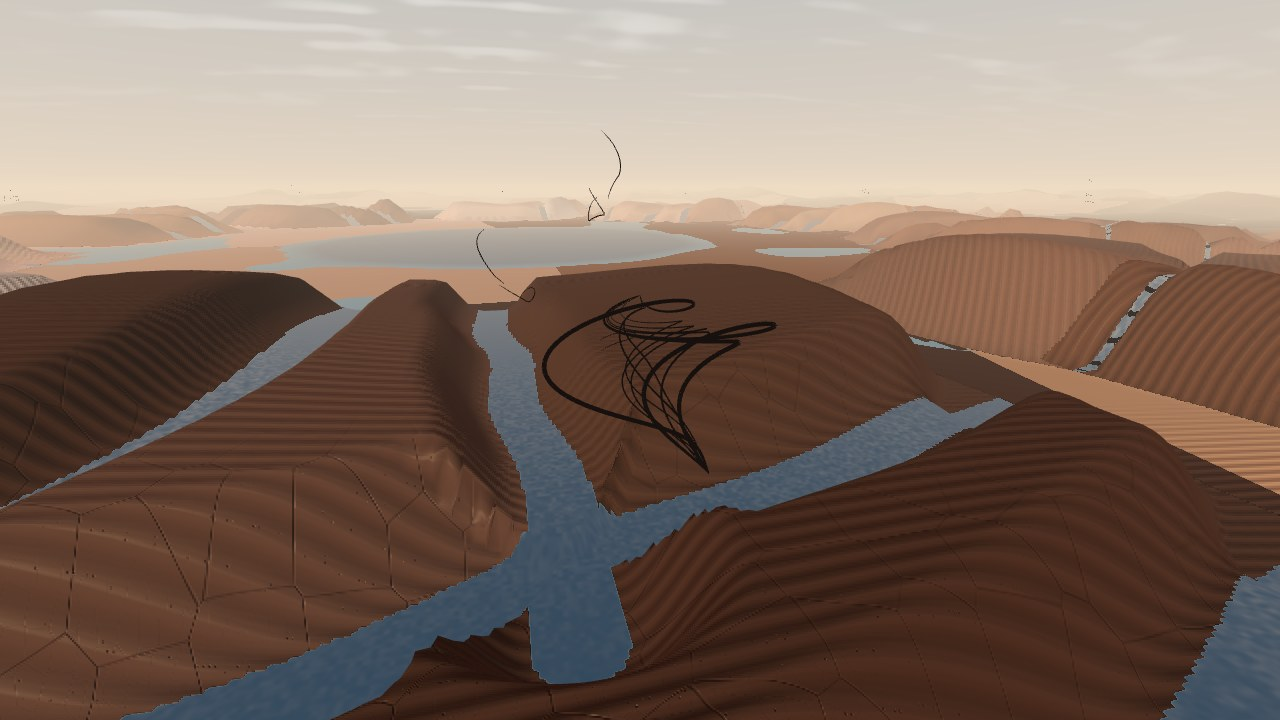
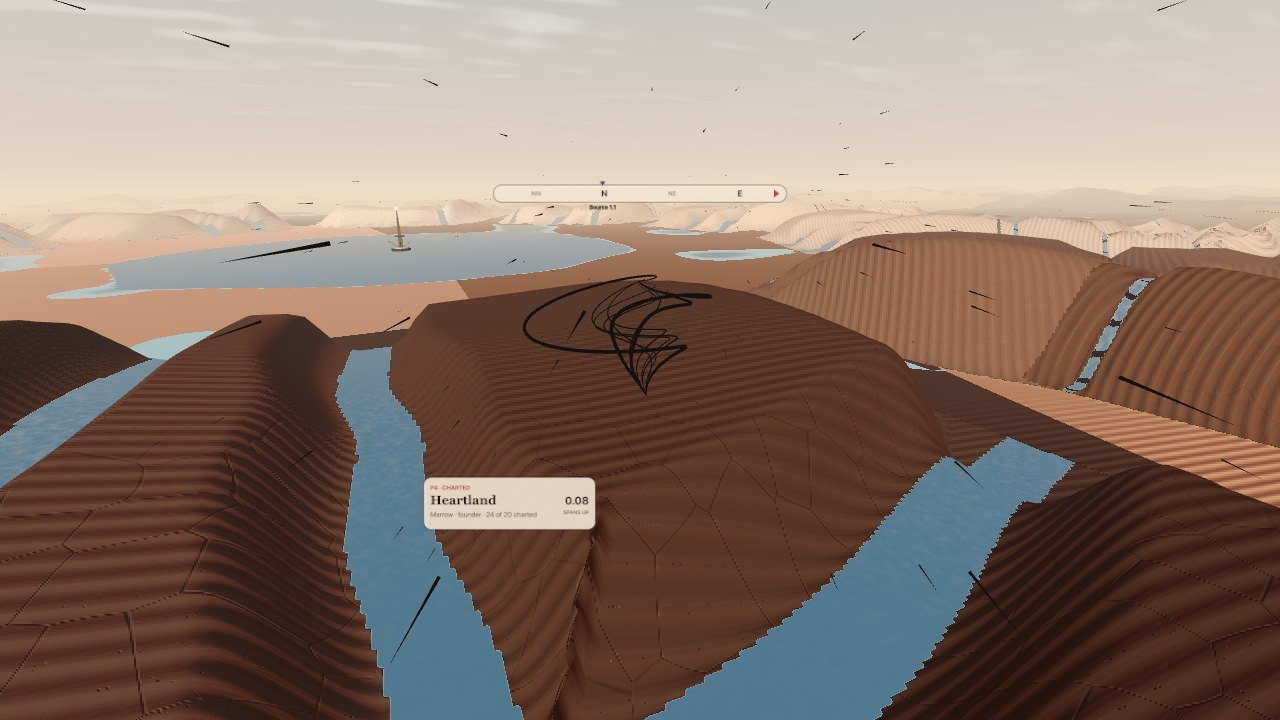
docs: README, Devpost copy and screenshots for the full game; the film shows charting, the atlas, a meeting and the Source
The film now reads by eye from the route card, charts while diving, opens the atlas by palm, chases
a second player (Oruvel, on the same local map) until the swarms braid, and ends at the Source.
Tracked hands are ink silhouettes again under the Source's lights. Devpost story: 443 words.

diff --git a/src/main.js b/src/main.js
@@ -264,9 +264,14 @@ scene.add(ink.mesh);
 // ---------- hands and head (read live for steering, never kept) ----------
 
 const handFactory = new XRHandModelFactory();
+// your hands are ink silhouettes (the hand models are lit standard materials; the Source's lights would turn them grey)
+const inkHands = [], INK_HAND = new THREE.MeshBasicMaterial({ color: 0x16100e });
+setInterval(() => { for (const m of inkHands) m.traverse((o) => { if (o.isMesh && o.material !== INK_HAND) o.material = INK_HAND; }); }, 1000);
 const xrHands = [0, 1].map((i) => {
   const hand = renderer.xr.getHand(i);
-  hand.add(handFactory.createHandModel(hand, 'mesh'));
+  const model = handFactory.createHandModel(hand, 'mesh');
+  hand.add(model);
+  inkHands.push(model);
   rig.add(hand);
   const h = { hand, handedness: i ? 'right' : 'left', frame: null, hold: createSteer(), engaged: false, store: Object.fromEntries(JOINTS.map((n) => [n, [0, 0, 0]])) };
   hand.addEventListener('connected', (e) => { h.handedness = e.data.handedness || h.handedness; });
@@ -604,7 +609,9 @@ function poke(mesh = atelier.mesh, down = (uv) => act(atelier.down(uv, flow)), m
   }
 }
 // a pinch: in the atelier it touches the card where you look; on the way to the merge it chooses the ghost you look at
+let pinchAt = -Infinity; // the last pinch: gaze + pinch and the palm hold must not fight over which ghost is chosen
 [0, 1].forEach((i) => renderer.xr.getController(i).addEventListener('select', () => {
+  pinchAt = performance.now();
   gazeRay();
   if (mode === 'atelier') { const uv = cardUV(); if (uv) { act(atelier.down(uv, flow)); act(atelier.up(flow)); } }
   else if (mode === 'atlas') { const uv = atlasUV(); if (uv) { atlasDo(atlas.down(uv)); atlasDo(atlas.up()); } }
@@ -760,13 +767,13 @@ function frame() {
     const h = xrHands.find((q) => q.handedness === 'right' && q.frame) ?? xrHands.find((q) => q.frame);
     if (renderer.xr.isPresenting && h) {
       const r = push.update(h.frame, dt, handFloor());
-      if (push.holding) {
+      if (push.holding && performance.now() - pinchAt > 3000) { // the palm chooses only when you are not pinching
         raycaster.ray.origin.fromArray(h.frame.center).applyMatrix4(rig.matrixWorld);
         raycaster.ray.direction.fromArray(h.frame.forward).applyQuaternion(rig.quaternion).normalize();
         const i = ghosts.aim(raycaster.ray.origin, raycaster.ray.direction);
         if (i >= 0 && i !== ghosts.selected) ghosts.select(i);
       }
-      if (r === 'push') choose(ghosts.selected);
+      if (r === 'push' && performance.now() - pinchAt > 3000) choose(ghosts.selected);
     }
   }
   if (rising) { // a laid Hand rises over 8 s once it has baked; the glider's floor rises with it

diff --git a/README.md b/README.md
@@ -25,9 +25,9 @@ The world starts as the **First Ten**: ten founding Hands lying in a ring around
 no other designed land. The world only grows when a player joins.
 
 - **Read your hand.** In your own room, in passthrough, a card floats in front of you next to your
-  real hand. You look at each fingertip and touch the pattern that matches (arch, tented arch, loop,
-  whorl, pocket loop, double loop). You trace your heart, head and life lines on a drawn palm, pick
-  a skin palette and get a name.
+  real hand. Read it by eye (look at each fingertip and touch the pattern that matches, trace your
+  heart, head and life lines on a drawn palm), or let your phone read it: it photographs your palm
+  and fingertips, reads the lines and patterns, deletes the photos and sends only the map DNA.
 - **Lay your Hand.** The game finds three places on the frontier where your Hand fits against the
   Hands already there, and shows them as ink outlines on the land. Choose one, and your Hand rises
   out of the wilderness over eight seconds, rivers first.
@@ -35,8 +35,16 @@ no other designed land. The world only grows when a player joins.
   up climbs, fingers down dives, and diving builds speed. Skim a ridge and you are flung forward.
 - **Scribbles.** Every fingerprint hatches a scribble, a single tapered ink line that knots above its
   Hand. Your own five follow your Hand once it has risen.
-- **Other players.** Whoever is in your room right now flies beside you as an ink creature, and a
-  Hand laid by anyone, anywhere, rises in your world while you watch.
+- **Chart the world.** Every handbit you have not seen is a parchment blank; fly low over it and the
+  ink spreads in. Chart all of a Hand and it is sealed with a red stamp.
+- **The atlas.** Turn your left palm up and the map of the whole world opens above it: every Hand,
+  its rivers and names, who is flying. Pin a place, fly there, name your handbits, be the first to
+  name a summit, give a handbit to the Community Hand, replay the world's history, print a postcard.
+- **Other players.** Up to 200 players share a room: their names float over their creatures, and when
+  you meet one your swarms braid for a moment. A Hand laid by anyone, anywhere, rises in your world
+  while you watch.
+- **The Community Hand.** At the Source, under the gilt spire, everyone builds one hand together, a
+  handbit each. When all 22 are given it is sealed, for everyone, and the next one begins.
 
 There is nothing to fail, no timer and no score. Your Hand stays where you laid it.
 
@@ -58,6 +66,19 @@ There is nothing to fail, no timer and no score. Your Hand stays where you laid 
 | ![Six skin palettes, a generated name and the Lay my Hand button](docs/screenshots/05-palette.jpg) | ![A large ink outline of a hand lying on the land, with labels naming its neighbours](docs/screenshots/06-ghosts.jpg) |
 | A palette and a name | Three places where your Hand fits |
 
+### The atlas and the shared world
+
+| | |
+| --- | --- |
+| ![The palm atlas: a parchment map of the ring of Hands with an inspector for Saelo, Pin it and Fly here](docs/screenshots/09-atlas.jpg) | ![Flying low over a Hand: a handbit inking in, with the place card naming it](docs/screenshots/10-charting.jpg) |
+| The atlas: inspect, pin, fly there | Charting: fly low and the ink spreads in |
+| ![The Community tab: a gilt hand with one slot given](docs/screenshots/11-community.jpg) | ![Another player's ink creature braiding with yours](docs/screenshots/14-meeting.jpg) |
+| The Community Hand, a handbit each | Meet someone and your swarms braid |
+| ![A printed postcard of a Hand with its rivers, handbit names, compass and a dated stamp](docs/screenshots/12-postcard.jpg) | ![The phone page showing heart, head and life lines read from a palm photo](docs/screenshots/13-phone.jpg) |
+| Your postcard | Your phone reads your palm lines |
+| ![The Source: a gilt spire in the blue Source lake](docs/screenshots/15-source.jpg) | ![The Whorl skimming a river canyon](docs/screenshots/07-rivers.jpg) |
+| The Source, made in Blender | Every palm line is a river |
+
 ### In the headset
 
 Seen through Meta's Quest 3 emulator (IWER). The card at the bottom of your view shows what your
@@ -75,6 +96,9 @@ Everything works with hands alone. Every action also has an easier alternative.
 | Trace a palm line | Drag your fingertip over the drawn palm | "Use the dotted guide" or "Use a typical palm" |
 | Choose where your Hand goes | Look at an outline and pinch; pinch again to lay it | Keys 1 2 3 and Enter |
 | Steer | Raise a relaxed open hand and point: your fingers are the arrow | Turn your head, or A D W S |
+| Lay your Hand | Palm down over an outline holds it; press 8 cm lower to lay it | Look and pinch twice |
+| Open the atlas | Turn your left palm up; it follows your palm, turn it down to close | M |
+| Use the atlas | Touch it with your right fingertip, drag to pan | Look and pinch; mouse and wheel |
 
 Quest hand tracking is steadiest at the wrist and knuckles, so steering reads the direction from
 wrist to middle knuckle, never the fingertips. A hand only steers when it is raised, open and held
@@ -86,16 +110,18 @@ hand tracking (MediaPipe, on the device).
 
 Palms and fingerprints are biometric data, so the game is built so it never needs yours:
 
-- You read your hand **by eye**. No camera looks at it. The game learns the pattern class you chose
-  for each finger and the lines you drew.
+- You read your hand **by eye** (no camera at all), or your **phone** reads it: the photos are read in
+  the phone's browser and never leave it. Only the lines and patterns it found go on, shuffled by one
+  step each. The camera route is 16 and over; anyone can read by eye.
 - What is kept is map DNA: 44 bytes per fingertip and about 80 bytes for a palm. The print hills are
   regrown from the class and a fresh random seed, so real minutiae, the details that identify a
   person, never exist anywhere in the game.
 - Skin colour is a palette you choose. It is never measured.
 - Hand tracking is used live for interaction only. Nothing measured from your hand is stored, sent or
   used to shape a land, as Meta's hand-data policy requires.
-- The shared map stores the DNA, where the Hand lies, its name, and the hash of a random device
-  token. "Forget my Hand" removes it from the map and from the device.
+- The shared map stores the DNA, where the Hand lies, its name, the names you give places, your gift
+  to the Community Hand, and the hash of a random device token. "Export my data" downloads all of it;
+  "Forget my Hand" removes it from the map and from the device, with your charting and pins.
 
 ## Components and tech
 
@@ -110,7 +136,12 @@ Palms and fingerprints are biometric data, so the game is built so it never need
 | Gestures | Palm frame, the raised-open-hand check, steering by pointing, the gesture card | [src/gesture.js](src/gesture.js), [src/gesturecard.js](src/gesturecard.js) |
 | Flight | Glider physics: dives build speed, skimming gives a boost | [src/glide.js](src/glide.js) |
 | Ink | The Whorl, the scribbles and other players, all ribbons in one draw call | [src/creature.js](src/creature.js), [src/scribble.js](src/scribble.js), [src/ink.js](src/ink.js) |
-| Shared map | A Cloudflare Worker: one World (D1, one lay at a time, overlaps refused) and live Rooms of up to 200 players | [server/](server/), [src/net.js](src/net.js) |
+| Shared map | A Cloudflare Worker: one World (D1, one lay at a time, overlaps refused; names, the Community Hand, the journal, watersheds, the pairing relay) and live Rooms of up to 200 players (poses, names) | [server/](server/), [src/net.js](src/net.js) |
+| Charting and the HUD | Which handbit lies under you, charting and seals, a compass ribbon and place card | [src/world/where.js](src/world/where.js), [src/world/chart.js](src/world/chart.js), [src/hud.js](src/hud.js) |
+| The atlas | A cartographer's map of the world on a card that follows your palm; pins, Fly here, naming, the journal, postcards | [src/atlas/](src/atlas/), [src/autopilot.js](src/autopilot.js), [src/postcard.js](src/postcard.js) |
+| Players together | Name tags, the greeting braid, the Community Hand | [src/labels.js](src/labels.js), [src/braid.js](src/braid.js), [src/community-art.js](src/community-art.js) |
+| The phone | Palm lines from a valley map and a best path near each template line; print classes from the ridge orientation field; pairing | [phone.html](phone.html), [src/phone/](src/phone/) |
+| The Source | A gilt spire built by a Blender script, exported as glTF | [tools/blender/source.py](tools/blender/source.py), [src/world/props.js](src/world/props.js) |
 
 No build step and no asset files: plain HTML and ES modules, served as they are.
 
@@ -134,7 +165,18 @@ python3 serve.py
 
 Open http://localhost:8130/ and choose **Preview in the browser**. Click the card to read your hand,
 press 1, 2 or 3 and Enter to lay it, then steer with A D (turn) and W S (climb and dive); drag to
-look around. **Use my webcam as hands** steers with your real hand instead.
+look around. **M** opens the atlas. **Use my webcam as hands** steers with your real hand instead.
+
+### The phone companion
+
+On the card in the headset choose **Use my phone**, then scan the QR code (or open
+`phone.html` and type the six-letter code). The phone page needs the shared map.
+
+### Rebuild the Source in Blender
+
+```bash
+blender -b -P tools/blender/source.py -- assets/source.glb
+```
 
 ### Try the headset flow without a headset
 
@@ -163,6 +205,8 @@ the next time the map can be reached. To deploy: `npx wrangler login`,
 ```bash
 node --test tests/*.test.mjs   # the server tests run when a server answers on :8787 (SERVER=1 starts one)
 node tests/m3.mjs              # two browsers on one map: needs serve.py on :8130 and the server on :8787
+node tests/phone.mjs           # the phone companion end to end, on generated images: same servers
+node tools/film.mjs            # records the demo film in the emulator (media/), with a second player
 ```
 
 ### Handy URL parameters
@@ -174,7 +218,10 @@ node tests/m3.mjs              # two browsers on one map: needs serve.py on :813
 | `?auto` | A slow circle with nobody steering (`?auto=dive` dives), for screenshots |
 | `?at=0,600,7000&pitch=-0.3` | Start somewhere else, looking up or down |
 | `?api=http://localhost:8787` | Use this server for the shared map |
-| `?emulate` | Quest 3 emulation with IWER (`&device=glasses` for the Meta VR Glasses, `&nodevui` hides its panel) |
+| `?emulate` | Quest 3 emulation with IWER (`&device=glasses` for the Meta VR Glasses, `&nodevui` hides its panel, `&room=` another scanned room) |
+| `?go=<handId>.<code>` | Open flying to a place (the atlas's addresses) |
+| `?calm` | Reduced motion: no braiding |
+| `?perf` | Frame rate, draw calls and terrain patches in a corner |
 
 ## Competition fit
 
@@ -182,12 +229,12 @@ node tests/m3.mjs              # two browsers on one map: needs serve.py on :813
 - **Hands first:** the whole game runs without ever pairing a controller.
 - **Purposeful passthrough:** you read your hand in your own room, with your real hand next to its
   map. Comparing the two is the point of that step. The world itself is immersive.
-- **Headset only:** no phone, no camera and no account are needed.
+- **Headset only:** no phone, no camera and no account are needed; the phone is an optional extra.
+- **Multiplayer:** live rooms of up to 200, names, the greeting, a shared world map and a Community Hand.
 - **Boldest original concept:** a world map made of nothing but its players' hands.
 
 ## What's next
 
-- An optional phone page that reads your real palm lines and print classes, deletes the photo, and
-  sends only the map DNA
-- An atlas you open on your own palm: chart handbits, follow a river to its neighbours
 - Walking a print hill at human scale, along the furrows between its ridges
+- The headset's own cameras as a third way to read a palm, where the Quest Browser allows it
+- Sound again, made for the shared world: every confluence and seal a chord

diff --git a/docs/devpost.md b/docs/devpost.md
@@ -11,70 +11,59 @@ Read your own hand and lay it into a shared world map: its lines become rivers, 
 
 ## Inspiration
 
-A palm already looks like a map. The heart, head and life lines are rivers, and a fingerprint is a
-hill drawn in contour lines. Everyone carries one of these maps around and almost nobody has really
-looked at it. We wanted a world with no designed levels at all: ten founding hands, and after that
-only the hands of the people who play.
+A palm already looks like a map: the heart, head and life lines are rivers, a fingerprint is a hill in
+contour lines. We wanted a world with no designed levels: ten founding hands, then only the hands of
+the people who play.
 
 ## What it does
 
-The game opens over the First Ten: ten founding Hands lying in a ring, their palm lines cut in as
-rivers, their fingertips rising as terraced print hills, and black-ink scribbles knotting above them.
+You read your own hand in your room, in passthrough: by eye (touch the pattern on each fingertip,
+trace your lines) or with your phone, which reads the photos and deletes them. That makes a Hand, a
+few hundred bytes of map DNA. The world proposes three places where it fits; you pinch one, or press
+it down with your palm, and your Hand rises out of the wilderness for every player.
 
-First you read your own hand, in your room, in passthrough. A card floats beside your real hand. You
-look at each fingertip and touch the pattern that matches, trace your heart, head and life lines on
-a drawn palm, choose a skin palette and get a name. That is your Hand: a few hundred bytes of map
-DNA, with no camera involved.
-
-Then you lay it. The game finds three places on the frontier where your Hand fits against its
-neighbours and shows them as ink outlines on the land. You look at one and pinch, and your Hand rises
-out of the wilderness. Its five scribbles hatch and start to circle it.
-
-Then you fly. You are the Whorl, a creature of nine ink strands. Raise a relaxed hand and point:
-fingers up climbs, fingers down dives, and diving builds speed. Other players in your room fly
-beside you, and when someone anywhere lays a Hand, it rises in your world while you watch. No timer,
-no score, nothing to fail.
+Then you fly as the Whorl, a creature of ink: point where you want to go, dive for speed. Fly low over
+a Hand and you chart it, the ink spreading into each blank handbit until the Hand is sealed. Turn your
+left palm up and the atlas opens: every Hand, its rivers and names, who is flying. Pin places, fly
+there, name your handbits or a summit nobody has named, print a postcard. Other players fly beside
+you with their names over them, and when you meet, your swarms braid. At the Source, under a gilt
+spire, everyone builds the Community Hand together, a handbit each.
 
 ## How we built it
 
-Plain three.js and WebXR in the Quest Browser, no build step. A Hand is built from its DNA in web
-workers: DNA to an outline, the outline cut into handbits by its own lines, rivers and print
-terraces baked into two texture arrays. One level-of-detail terrain draws every Hand and the endless
-skin wilderness around them in a single shader. All ink (your creature, the scribbles, other
-players) is ribbons in one draw call. The shared map is a Cloudflare Worker: one Durable Object
-owns the world and lays one Hand at a time in D1, refusing overlaps; live rooms of up to 200 players
-relay poses at 5 Hz in a small binary format.
+Plain three.js and WebXR in the Quest Browser, no build step. Hands are built from DNA in web
+workers and drawn, with an endless skin wilderness, as one level-of-detail terrain in a single
+shader. A Cloudflare Worker keeps the map: one Durable Object lays Hands one at a time in D1 and
+keeps names, the Community Hand and the journal; rooms of 200 relay poses. The phone reads palm lines
+from a valley map and print patterns from the ridge orientation field, in its own browser. The
+Source was built by a Blender script.
 
 ## Challenges we ran into
 
-Our first version grew one fingerprint on a real table. It was pretty and small. Two weeks in we
-threw the table away and made the hand itself the world, ten times larger, which meant a new
-terrain, a new scale and a new way to fly. Steering was the other one: tilting a palm drifted, so
-now your fingers are an arrow, read from the wrist and middle knuckle where Quest tracking is
-steadiest, and a hand only steers when it is raised, open and held for a moment.
+We threw away our first table-top version two weeks in and made the hand itself the world. Steering
+by tilting a palm drifted, so your fingers became an arrow, read where Quest tracking is steadiest.
 
 ## Accomplishments that we're proud of
 
-A world map with no designed land in it. A new player really does extend it, for everyone, live.
-And a privacy story we can stand behind: we never need a picture of your hand.
+A world map with no designed land in it, that a new player really extends, live. And we never need a
+picture of your hand.
 
 ## What we learned
 
-Palms and fingerprints are biometric data, and hand-tracking data identifies people too. Designing
-around that from day one (read by eye, keep only coarse map DNA, regrow the prints from a class and
-a random seed, use hand data live only) made the game simpler, not weaker.
+Designing around biometric data from day one made the game simpler, not weaker.
 
 ## What's next for Palm Whorl Cities
 
-An optional phone page that reads your real palm lines and deletes the photo, an atlas you open on
-your own palm to chart its regions and follow a river to its neighbours, and walking a print hill at
-human scale along the furrows between its ridges.
+Walking a print hill at human scale, the headset's own cameras as a third way in, and sound made for
+a shared world.
 
 ## How hand interactions are implemented
 
 Everything is hands first. On the card you touch with your index fingertip (a press is the fingertip
 crossing the card's plane, a drag draws a palm line), or look and pinch. You choose where your Hand
-goes by looking at an outline and pinching. You steer by pointing: the direction from wrist to
+goes by looking at an outline and pinching, or by holding your palm down over it and pressing it 8 cm
+lower until it comes to rest. Turning your left palm up opens the atlas above it, and it follows that
+palm; your right fingertip taps it. You steer by pointing: the direction from wrist to
 middle knuckle is the arrow, with a dead zone, and a hand engages only when it is raised, not a fist
 and held for 0.4 seconds, so resting hands never steer. A card fixed in view shows which condition
 is missing. The head steers when no hand is engaged. Hand data is used live only and never stored or
@@ -83,14 +72,14 @@ sent.
 ## Built With
 
 three.js, WebXR, JavaScript, HTML, CSS, GLSL, WebXR Hand Input, Web Workers, Cloudflare Workers,
-Durable Objects, Cloudflare D1, MediaPipe, Meta Quest, Meta Quest Browser, Passthrough,
+Durable Objects, Cloudflare D1, MediaPipe, Blender, glTF, Meta Quest, Meta Quest Browser, Passthrough,
 IWER (Immersive Web Emulation Runtime), GitHub Pages, Node.js, Claude Code
 
 ## Try it out
 
 - Live: https://hey-look-its-tim-dries.github.io/td-devpost-hackathon-meta/
 - Code: https://github.com/hey-look-its-tim-dries/td-devpost-hackathon-meta
-- Video: TODO
+- Video: TODO (upload media/palm-whorl-cities-demo.mp4, 1:55, recorded in Meta's Quest 3 emulator)
 
 ## Track, division, launch
 
